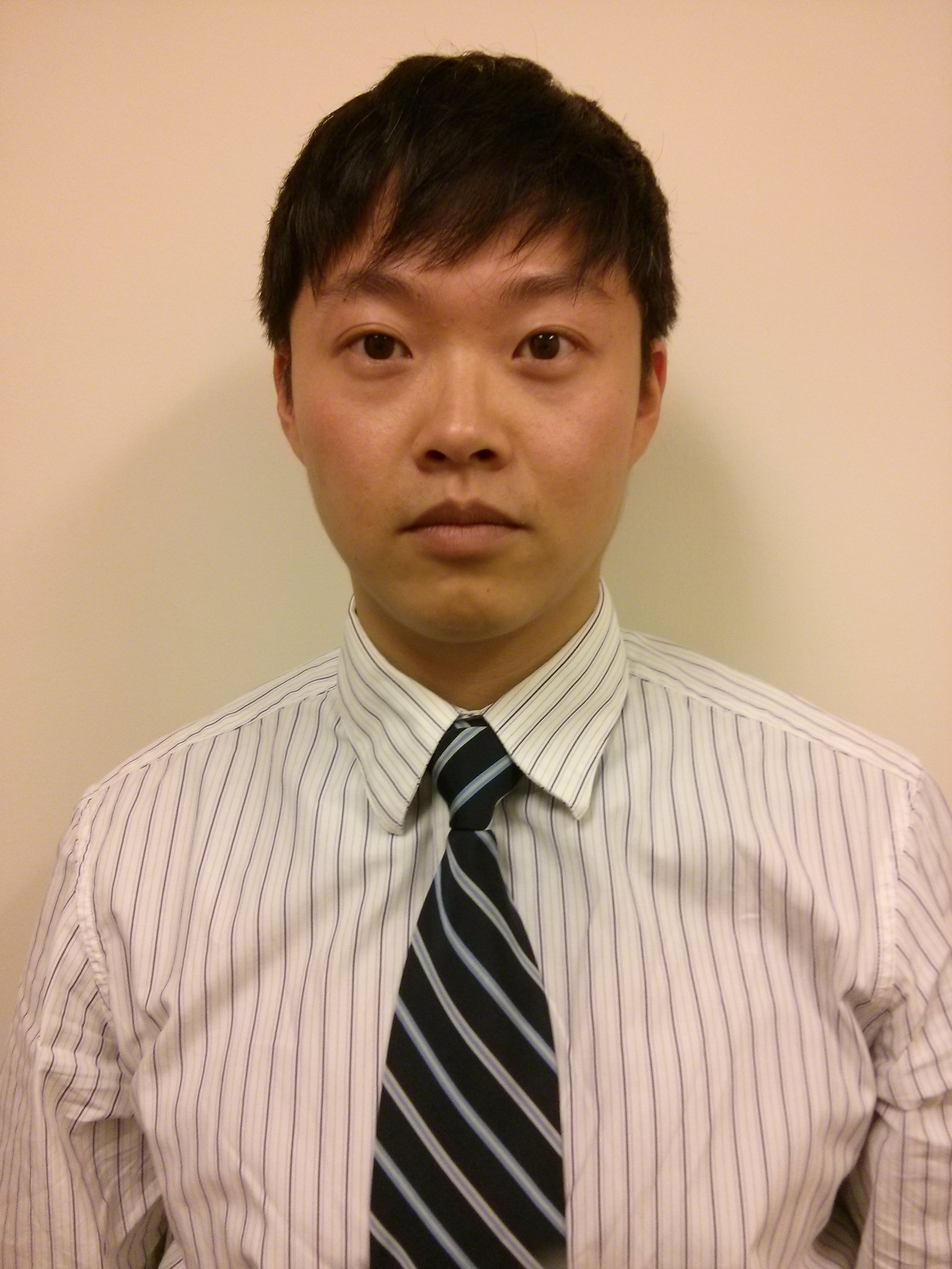
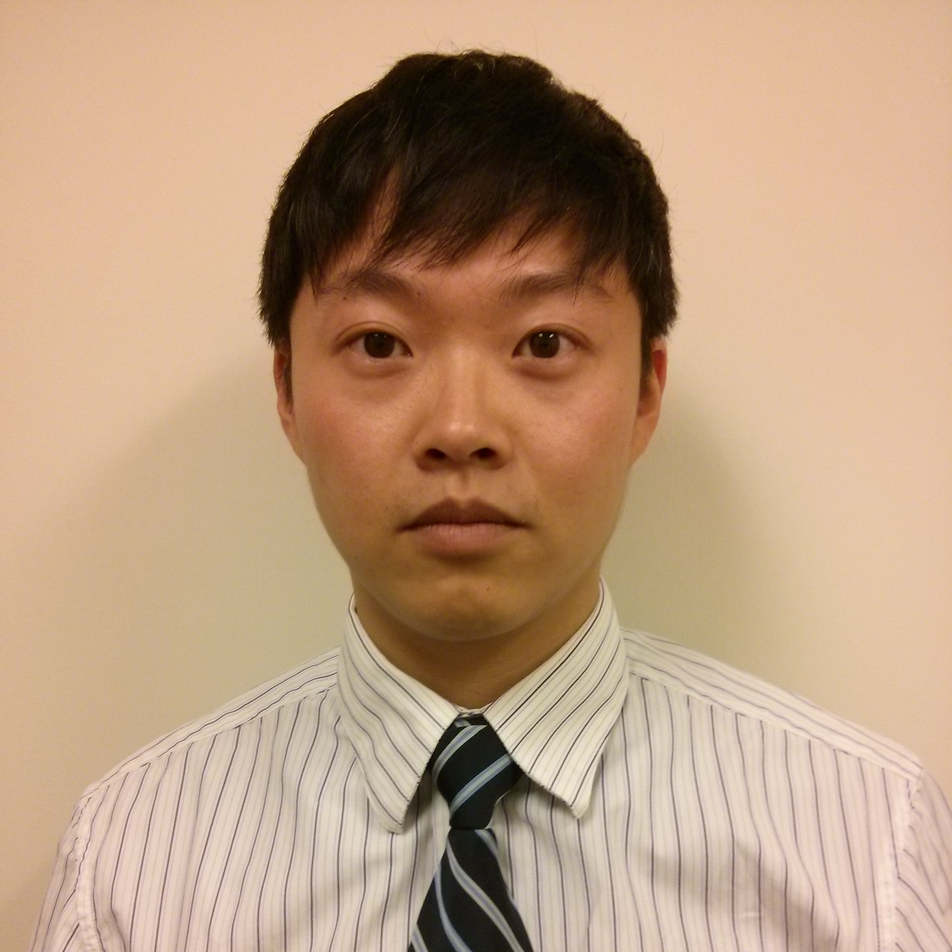
fixed photo for ed on about page

diff --git a/src/components/About/About.js b/src/components/About/About.js
@@ -34,7 +34,7 @@ const About = () => {
         </div>
         <div className='p-4 shadow-2xl rounded-lg'>
           <div className='h-48 mb-2 overflow-hidden shadow-lg md:h-60'>
-            <img src='/images/Ed_work_photo.jpeg' alt='Ed' className='object-cover object-center w-full h-full p-2 rounded-2xl' />
+            <img src='/images/Ed_work_photo.jpeg' alt='Ed' className='object-contain object-center w-full h-full p-2 rounded-2xl' />
           </div>
           <div className='flex flex-col items-center justify-center'>
             <div className='font-bold text-indigo-500 md:text-lg mb-3'>Ed Geng</div>
